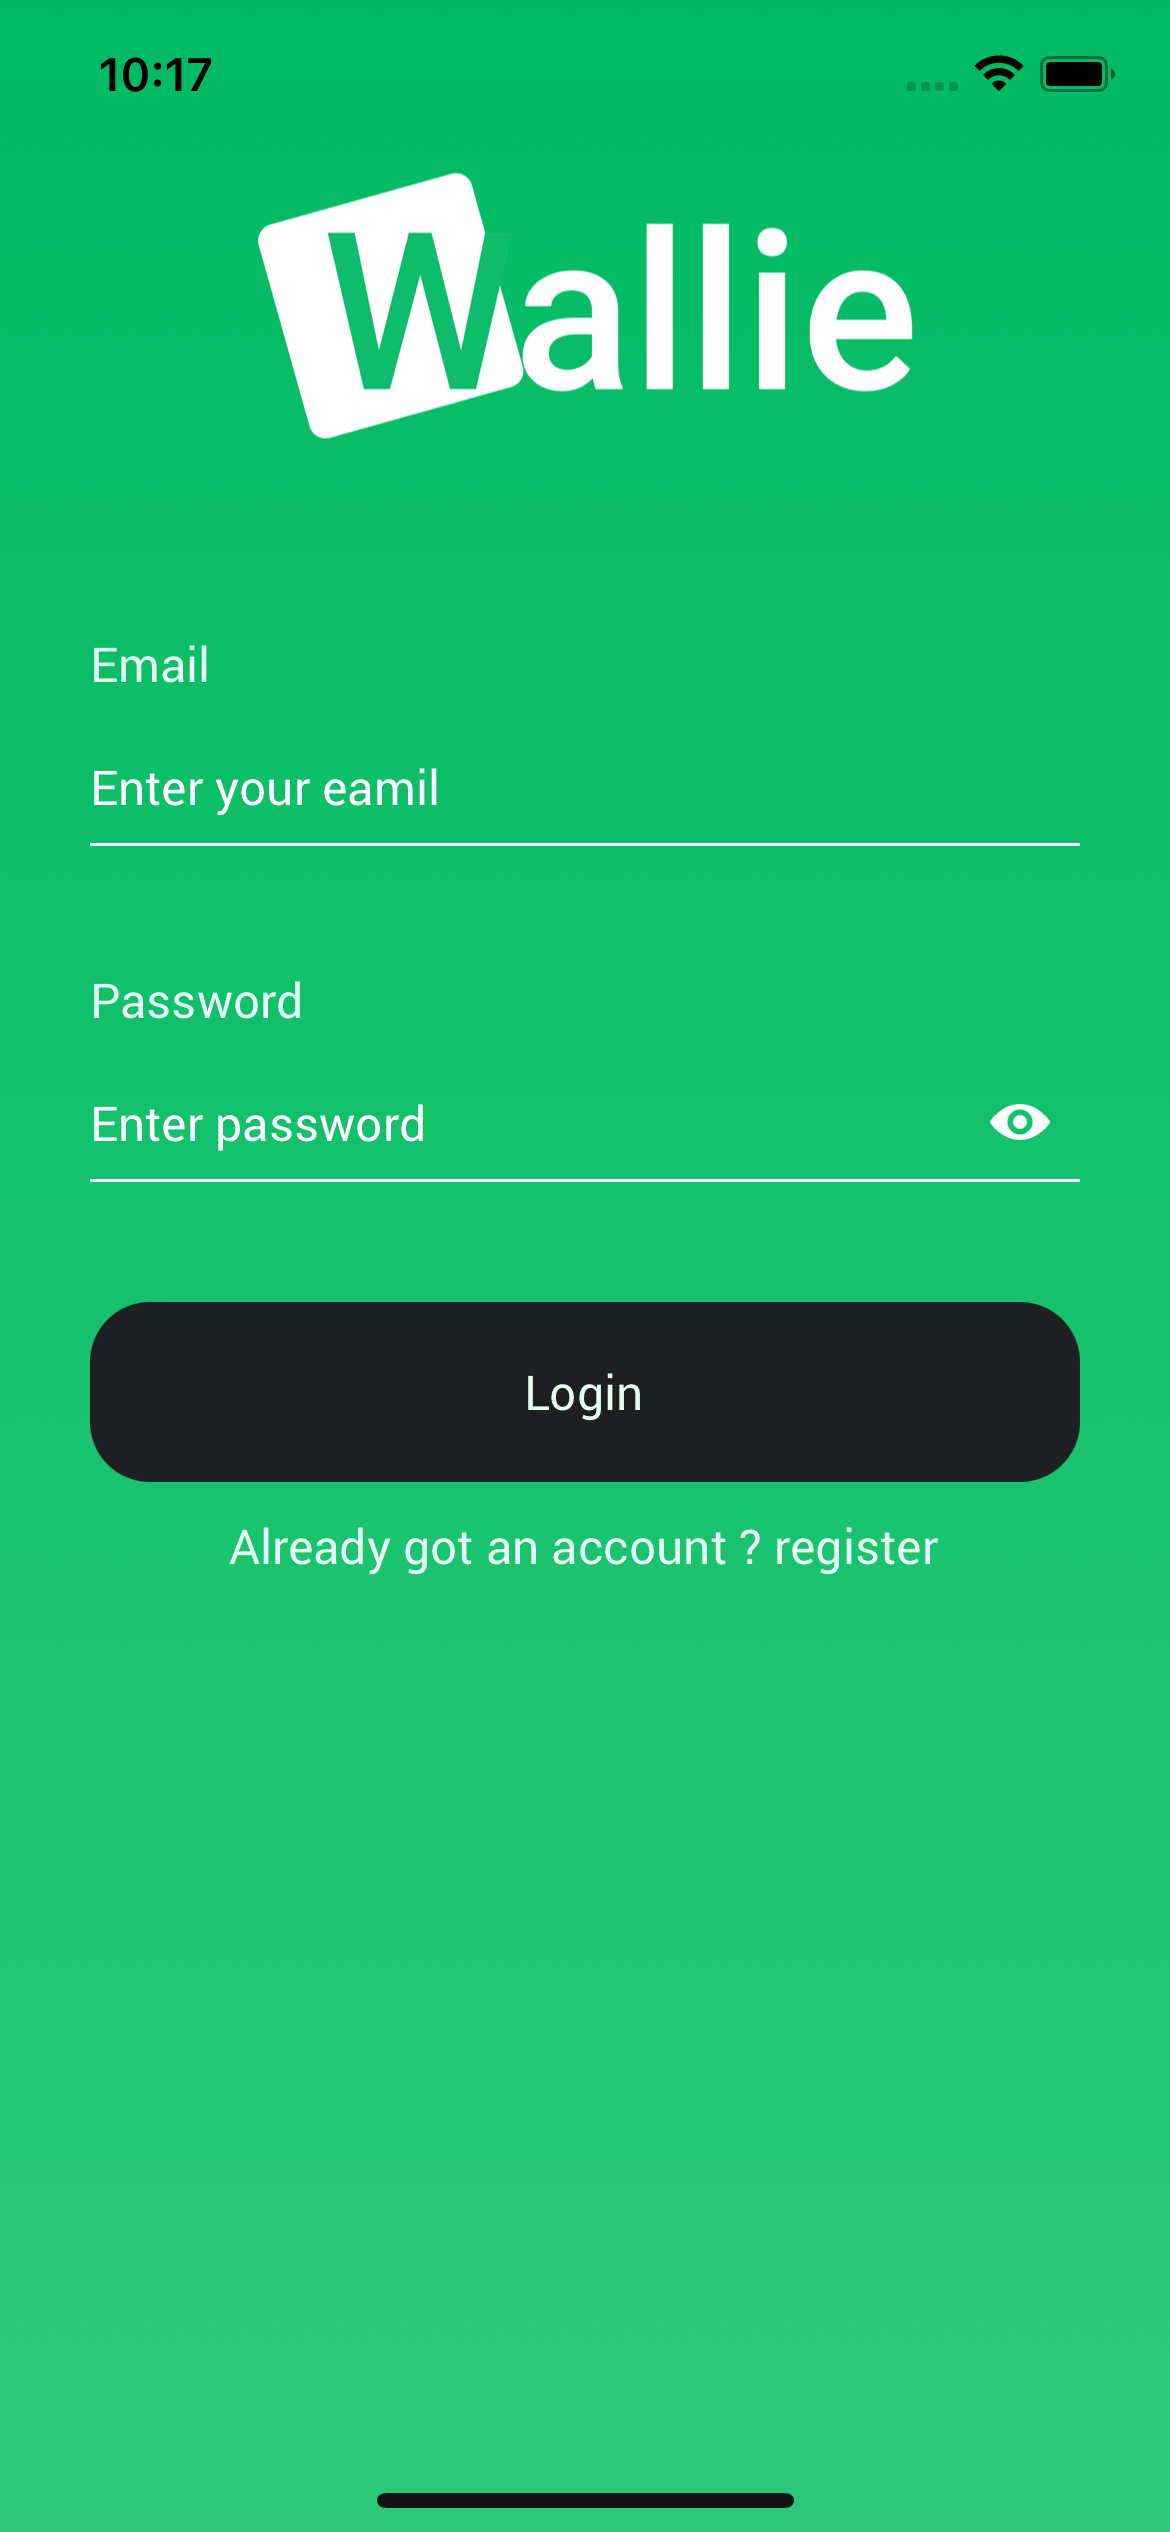
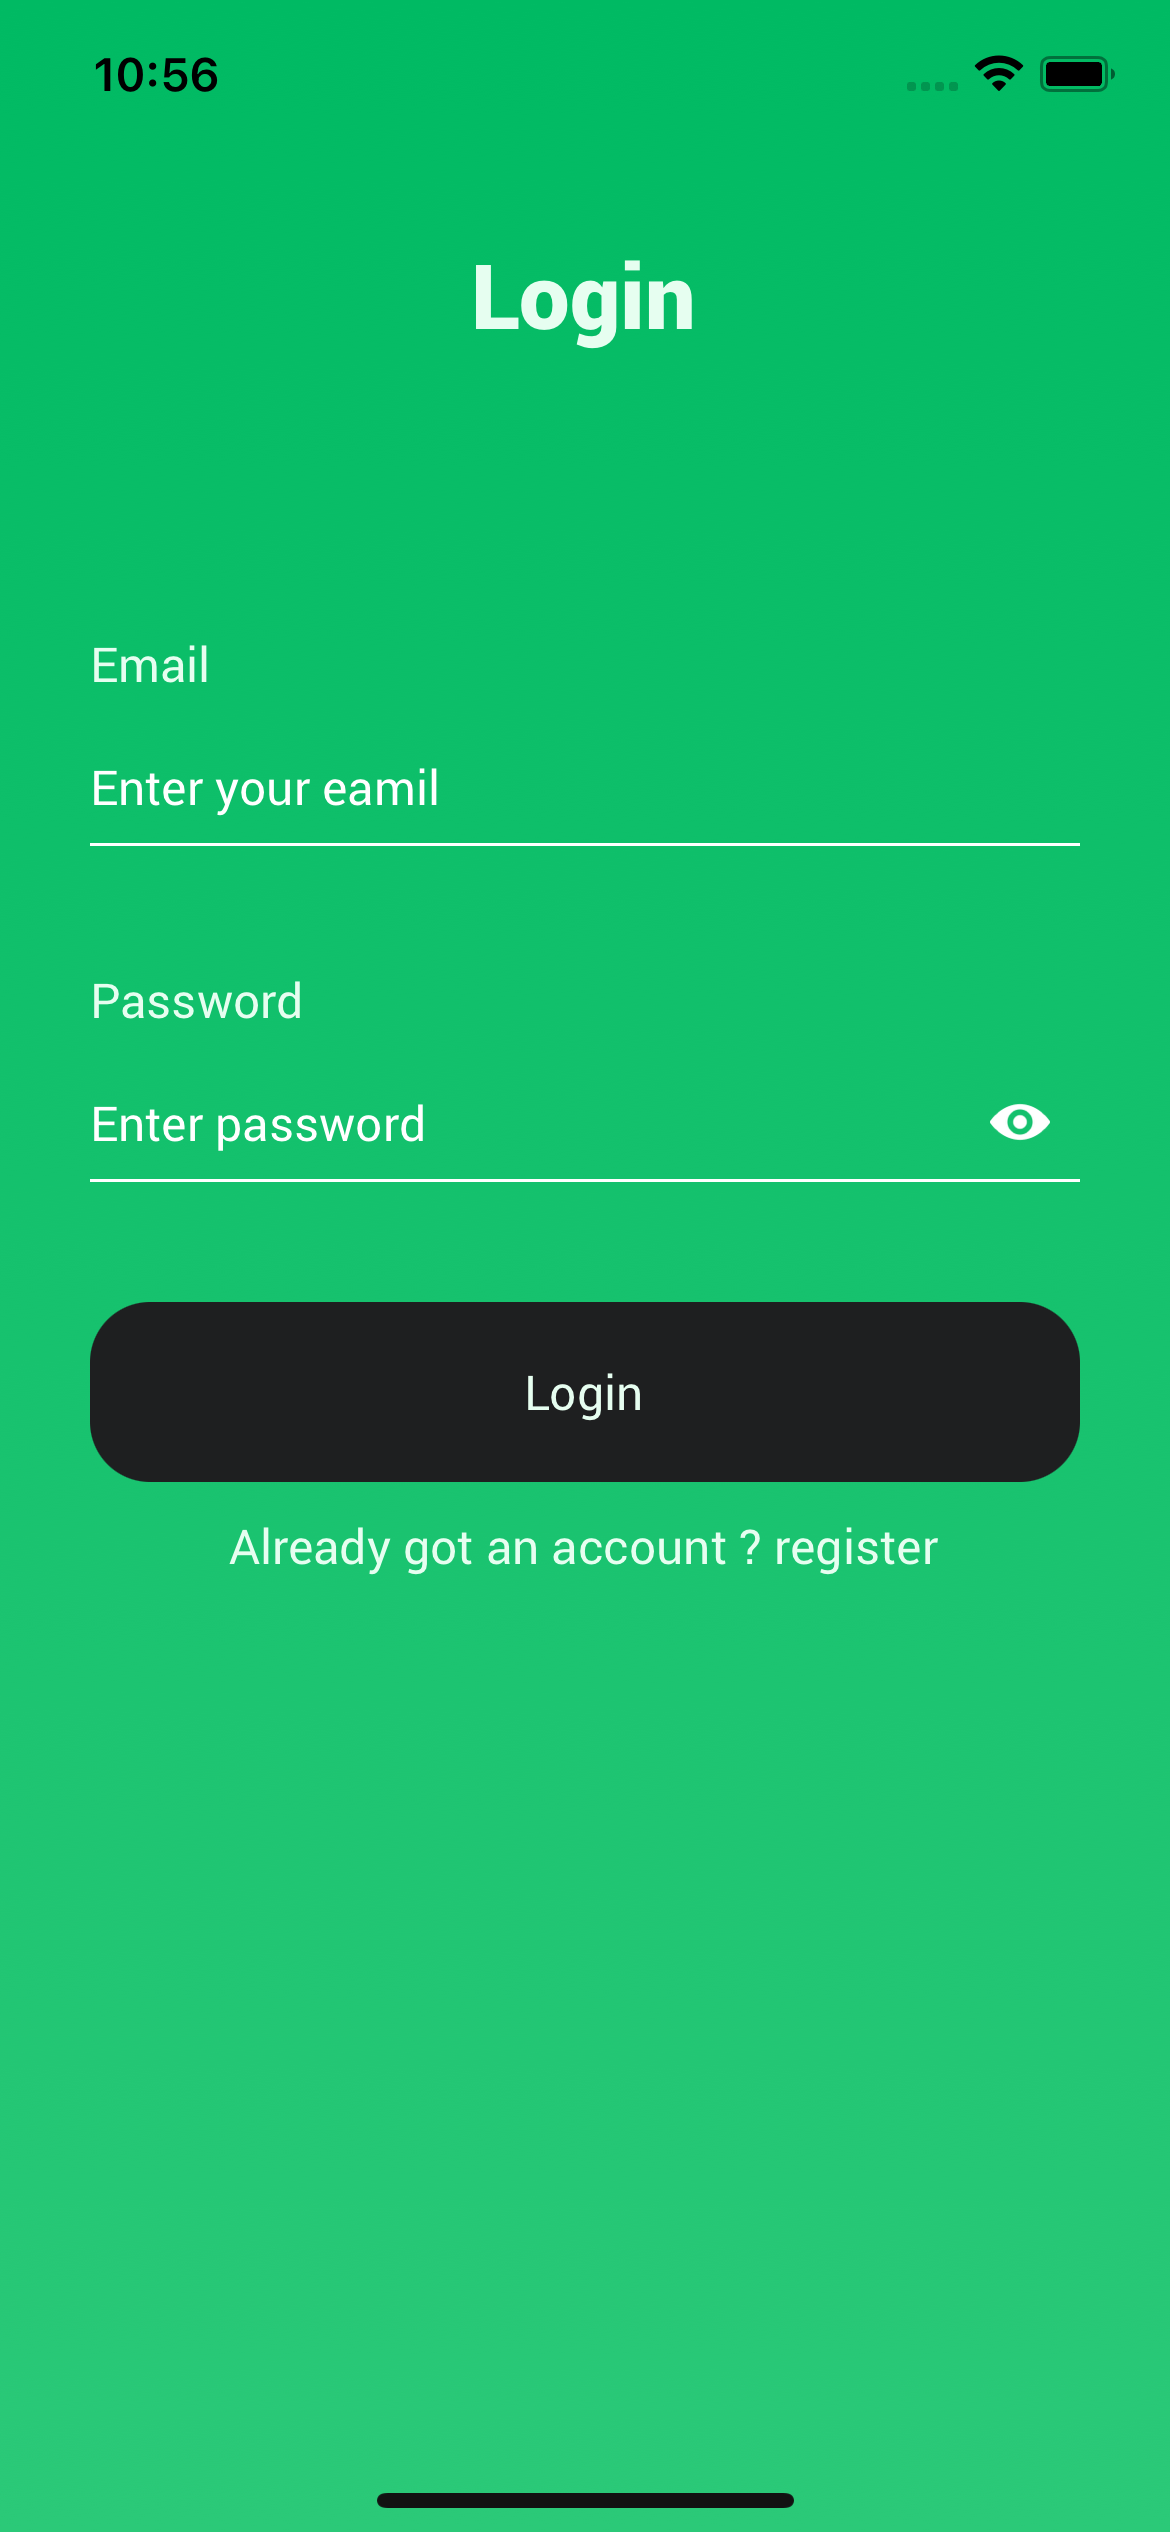
latest

Changed region(s): [[0.2154, 0.0624, 0.8, 0.1872], [0.0923, 0.0, 0.1846, 0.0624]]

diff --git a/src/components/Logo.js b/src/components/Logo.js
@@ -1,8 +1,8 @@
 import React from 'react';
 import {View, Text, Image} from 'react-native';
-import {icons, images, SIZES} from '../constants';
+import {COLORS, FONTS, icons, images, SIZES} from '../constants';
 
-const Logo = () => {
+const Logo = ({title}) => {
   return (
     <View
       style={{
@@ -11,11 +11,13 @@ const Logo = () => {
         alignItems: 'center',
         justifyContent: 'center',
       }}>
-      <Image
-        source={images.wallieLogo}
-        resizeMode="contain"
-        style={{width: '60%'}}
-      />
+      <Text
+        style={{
+          color: COLORS.lightGreen,
+          ...FONTS.h1,
+        }}>
+        {title}
+      </Text>
     </View>
   );
 };

diff --git a/src/screens/Signup.js b/src/screens/Signup.js
@@ -37,10 +37,7 @@ const Signup = ({navigation}) => {
   const handleSelectedCountries = country => {
     setSelectedCountry(country);
   };
-  //   "name": "Tuvalu",
-  //   "flag": "🇹🇻",
-  //   "code": "TV",
-  //   "dial_code": "+688"
+
   return (
     <KeyboardAvoidingView
       behavior={Platform.OS === 'ios' ? 'padding' : null}
@@ -48,7 +45,7 @@ const Signup = ({navigation}) => {
       <LinearGradient colors={[COLORS.lime, COLORS.emerald]} style={{flex: 1}}>
         <ScrollView>
           <Header title="Signup" onPress={() => navigation.navigate('Login')} />
-          <Logo />
+          <Logo title="Signup" />
 
           <View
             style={{

diff --git a/src/screens/Login.js b/src/screens/Login.js
@@ -29,7 +29,7 @@ const Login = ({navigation}) => {
       <LinearGradient colors={[COLORS.lime, COLORS.emerald]} style={{flex: 1}}>
         <ScrollView>
           <Header title="Login" islogin={true} />
-          <Logo />
+          <Logo title="Login" />
 
           <View
             style={{
